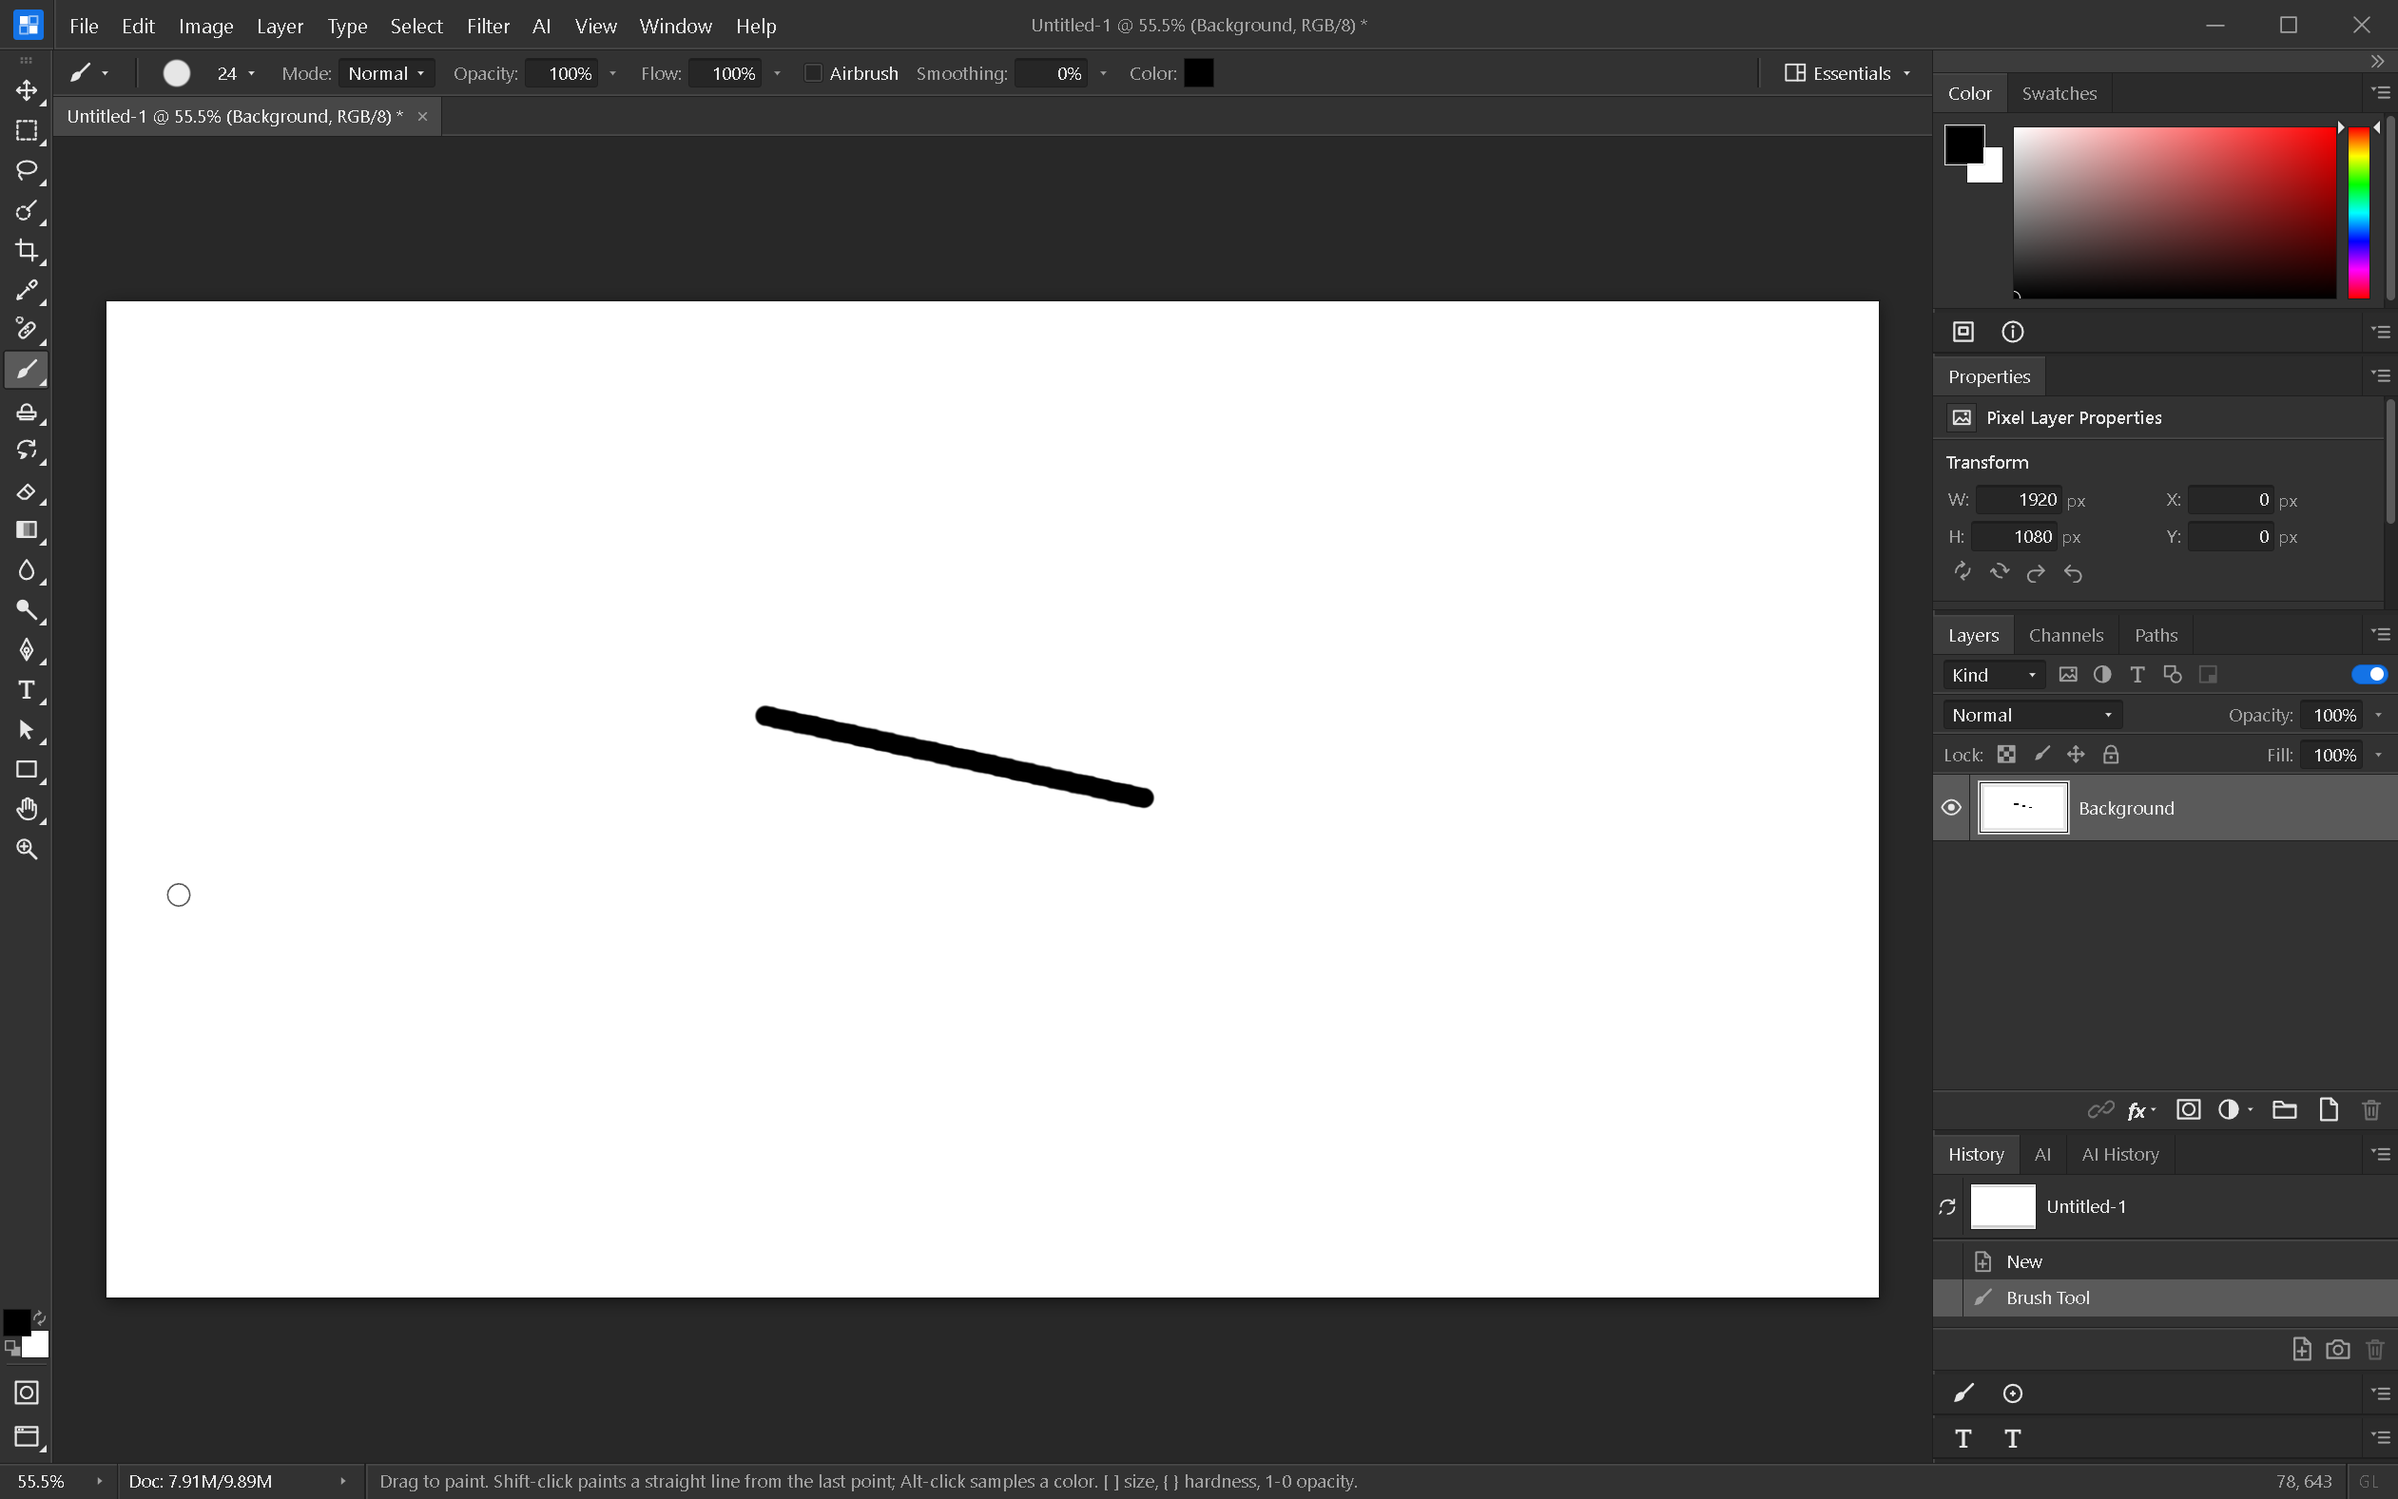
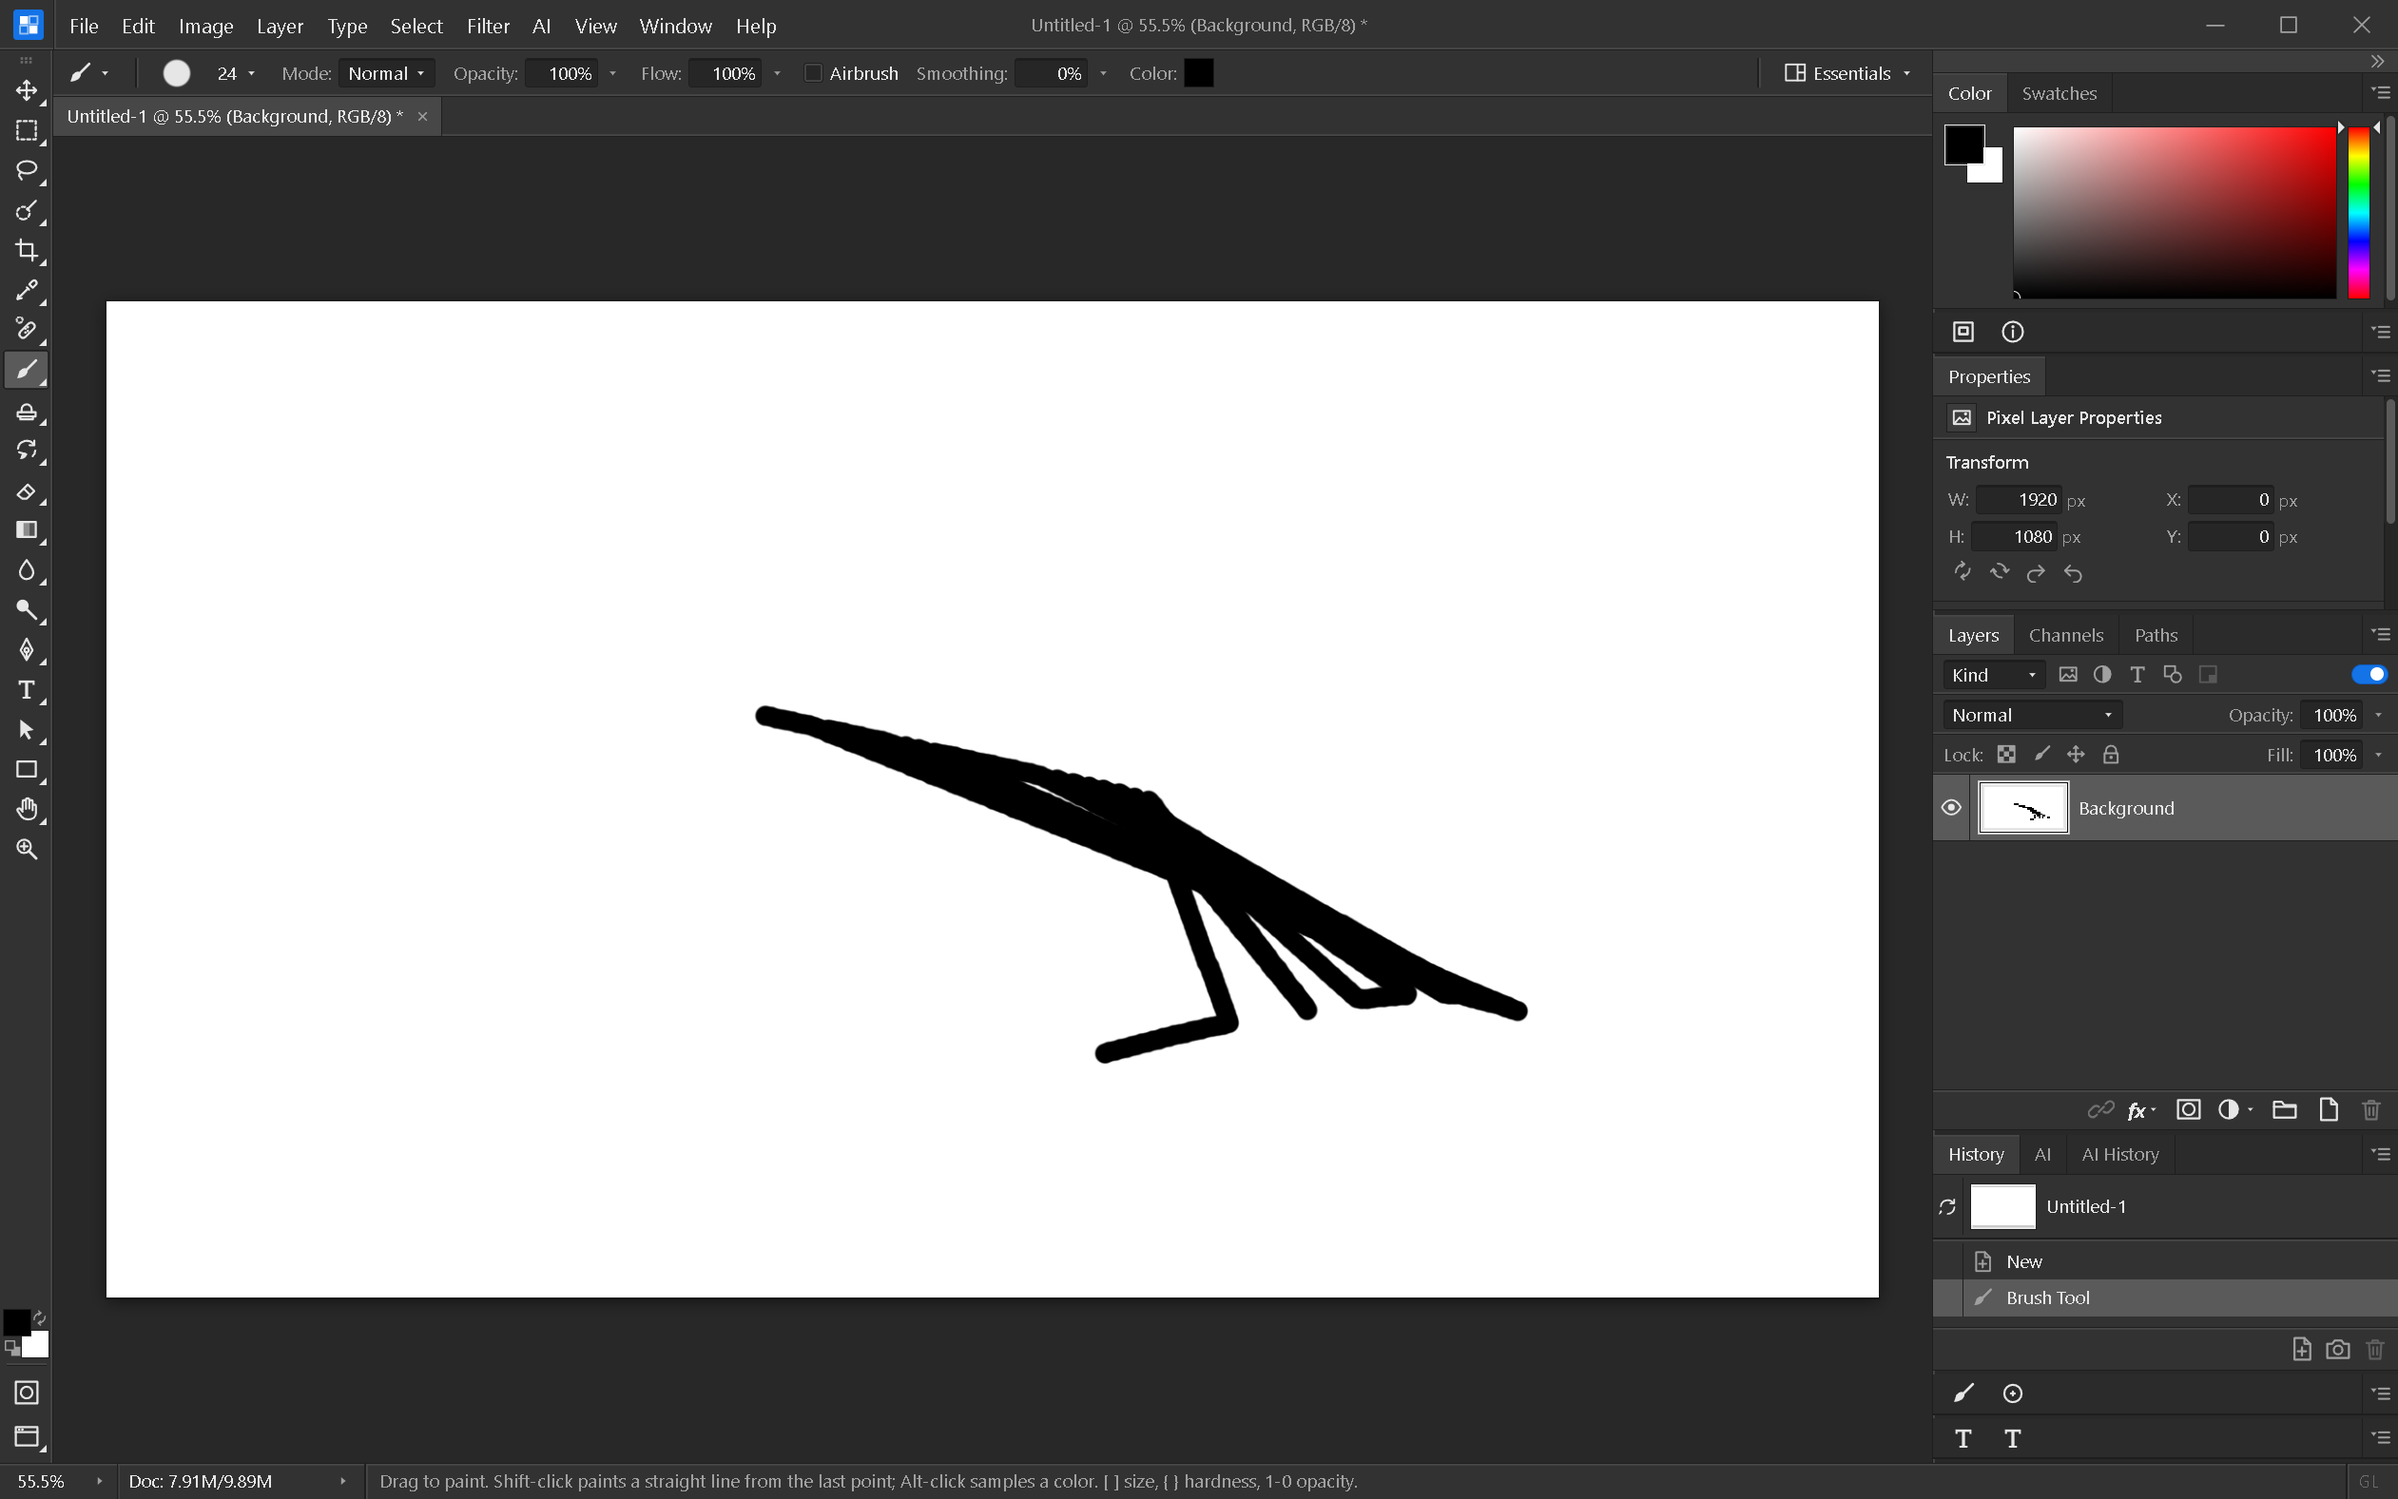
Clear brush hover outline when leaving the canvas

Changed region(s): [[0.3402, 0.4971, 0.6495, 0.7146]]

diff --git a/app/src/lib/tools/types.ts b/app/src/lib/tools/types.ts
@@ -137,6 +137,8 @@ export interface Tool {
   onDeactivate?(ctx: ToolContext): void;
   /** Draw on the 2D overlay (CSS px; use `ctx.viewport.docToScreen`). */
   drawOverlay?(g: CanvasRenderingContext2D, ctx: ToolContext): void;
+  /** Clear hover feedback when the pointer leaves; an active captured gesture continues. */
+  onPointerLeave?(ctx: ToolContext): void;
 }
 
 /** Common modifier→selection-mode mapping (Photoshop): Shift add, Alt subtract, both intersect. */

diff --git a/app/src/lib/tools/brush-base.ts b/app/src/lib/tools/brush-base.ts
@@ -164,6 +164,11 @@ export abstract class BrushBasedTool implements Tool {
     if (rect) ctx.touch({ layerId: t.dirtyId, rect });
   }
 
+  onPointerLeave(ctx: ToolContext): void {
+    this.hover = null;
+    ctx.invalidateOverlay();
+  }
+
   onPointerUp(e: ToolEvent, ctx: ToolContext): void {
     const s = this.stroke;
     const t = this.target;

diff --git a/app/src/lib/ui/CanvasView.svelte b/app/src/lib/ui/CanvasView.svelte
@@ -344,6 +344,10 @@
 
   function onPointerLeave(): void {
     ui.cursorDoc = null;
+    if (!active) return;
+    const tool = canvasHost.activeTool;
+    const ctx = canvasHost.context(tool);
+    if (ctx) tool.onPointerLeave?.(ctx);
   }
 
   function onWheel(e: WheelEvent): void {

diff --git a/PLAN-v3.md b/PLAN-v3.md
@@ -202,9 +202,11 @@ boundary-crossing stroke and cancellation while storage stays tiled, comparing a
 and premultiplied color to account for RGBA8 GPU rounding. The Windows native build
 passes; an isolated native window paints a stroke and restores exact canvas screenshot
 pixels through undo and redo without page errors (`docs/screenshots/tiled-brush-native.png`).
-The comparison moves the brush cursor outside the captured region: moving directly
-into the toolbar can leave its overlay at the previous canvas position, a remaining
-cursor cleanup issue. Legacy healing coverage readback still allocates a full float array;
+Pointer leave now clears brush hover feedback through an optional tool lifecycle hook.
+Browser checks confirm the outline disappears on leave, stays absent when brush size
+changes outside the canvas, and returns on reentry. The rebuilt Windows app passes
+the paint/undo/redo screenshot check with the pointer moved into the toolbar, where
+the stale outline previously remained. Legacy healing coverage readback still allocates a full float array;
 this is not completion of the application memory gate.
 Legacy pixel writers, remaining bulk operations, sparse GPU allocation, workers, non-destructive
 cropping and the full 1.5 GB benchmark gate remain open.
